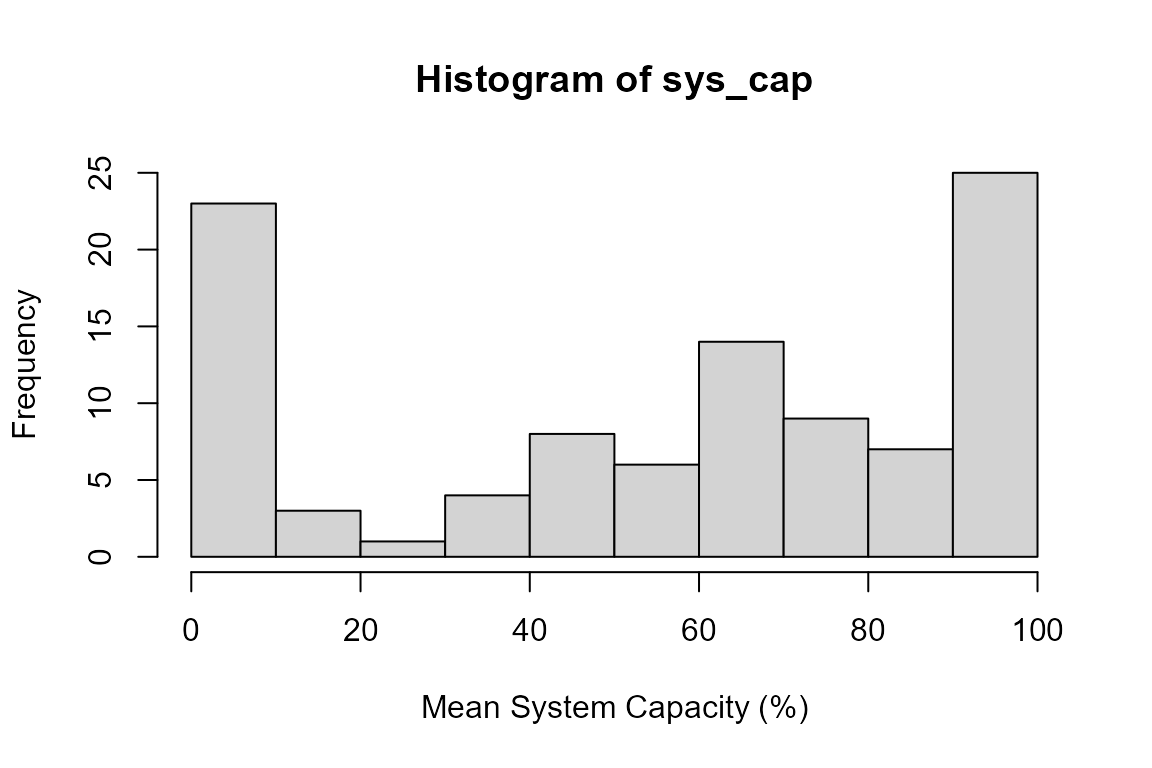
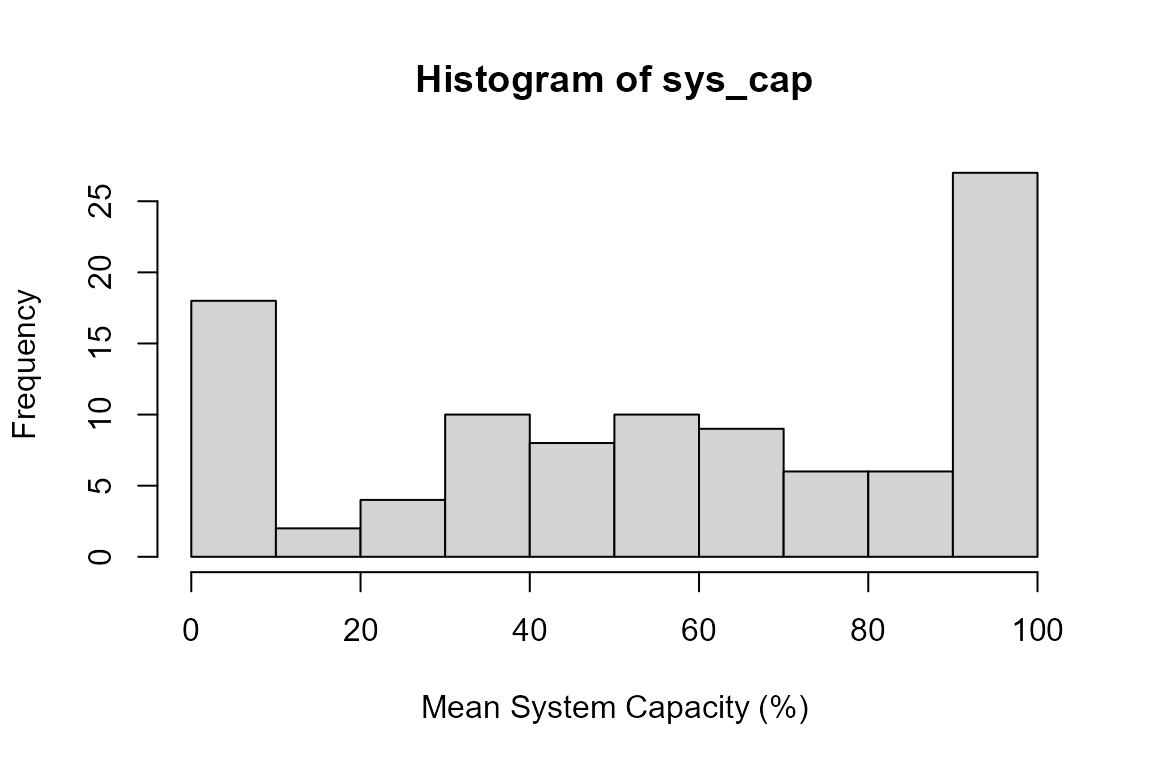
ghp

diff --git a/docs/articles/population-model-batch-run.html b/docs/articles/population-model-batch-run.html
@@ -162,19 +162,19 @@ variables “ce” or baseline reference conditions “baseline”.</p>
 <span>    <span class="co"># Review output</span></span>
 <span>    <span class="fu"><a href="https://rdrr.io/r/utils/head.html" class="external-link">head</a></span><span class="op">(</span><span class="va">data</span>, <span class="fl">3</span><span class="op">)</span></span>
 <span><span class="co">#&gt;   year        N MC_sim group</span></span>
-<span><span class="co">#&gt; 1    0 97.26709      1    ce</span></span>
-<span><span class="co">#&gt; 2    1 97.23826      1    ce</span></span>
-<span><span class="co">#&gt; 3    2 94.16912      1    ce</span></span>
+<span><span class="co">#&gt; 1    0 51.86293      1    ce</span></span>
+<span><span class="co">#&gt; 2    1 59.73891      1    ce</span></span>
+<span><span class="co">#&gt; 3    2 65.31180      1    ce</span></span>
 <span></span>
 <span>    <span class="co"># Look the median adult abundance</span></span>
 <span>    </span>
 <span>    <span class="co"># with stressor variables (cumulative effects)</span></span>
 <span>    <span class="fu"><a href="https://rdrr.io/r/stats/median.html" class="external-link">median</a></span><span class="op">(</span><span class="va">data</span><span class="op">$</span><span class="va">N</span><span class="op">[</span><span class="fu"><a href="https://rdrr.io/r/base/which.html" class="external-link">which</a></span><span class="op">(</span><span class="va">data</span><span class="op">$</span><span class="va">group</span> <span class="op">==</span> <span class="st">"ce"</span><span class="op">)</span><span class="op">]</span>, na.rm <span class="op">=</span> <span class="cn">TRUE</span><span class="op">)</span></span>
-<span><span class="co">#&gt; [1] 98.52124</span></span>
+<span><span class="co">#&gt; [1] 94.02069</span></span>
 <span>    </span>
 <span>    <span class="co"># and without stressor variables (baseline status quo)</span></span>
 <span>    <span class="fu"><a href="https://rdrr.io/r/stats/median.html" class="external-link">median</a></span><span class="op">(</span><span class="va">data</span><span class="op">$</span><span class="va">N</span><span class="op">[</span><span class="fu"><a href="https://rdrr.io/r/base/which.html" class="external-link">which</a></span><span class="op">(</span><span class="va">data</span><span class="op">$</span><span class="va">group</span> <span class="op">==</span> <span class="st">"baseline"</span><span class="op">)</span><span class="op">]</span>, na.rm <span class="op">=</span> <span class="cn">TRUE</span><span class="op">)</span></span>
-<span><span class="co">#&gt; [1] 98.99706</span></span></code></pre></div>
+<span><span class="co">#&gt; [1] 97.83477</span></span></code></pre></div>
 </div>
 <div class="section level2">
 <h2 id="visualize-the-time-series-projections">Visualize the Time Series Projections<a class="anchor" aria-label="anchor" href="#visualize-the-time-series-projections"></a>

diff --git a/docs/articles/population-model.html b/docs/articles/population-model.html
@@ -315,7 +315,7 @@ stressors are included.</p>
 <span><span class="va">baseline_sys_cap</span> <span class="op">&lt;-</span> <span class="fu">stats</span><span class="fu">::</span><span class="fu"><a href="https://rdrr.io/r/stats/median.html" class="external-link">median</a></span><span class="op">(</span><span class="va">baseline</span><span class="op">$</span><span class="va">pop</span><span class="op">$</span><span class="va">N</span><span class="op">[</span><span class="fl">50</span><span class="op">:</span><span class="fl">100</span><span class="op">]</span><span class="op">)</span></span>
 <span><span class="va">ce_sys_cap</span> <span class="op">&lt;-</span> <span class="fu">stats</span><span class="fu">::</span><span class="fu"><a href="https://rdrr.io/r/stats/median.html" class="external-link">median</a></span><span class="op">(</span><span class="va">ce_pop</span><span class="op">$</span><span class="va">pop</span><span class="op">$</span><span class="va">N</span><span class="op">[</span><span class="fl">50</span><span class="op">:</span><span class="fl">100</span><span class="op">]</span><span class="op">)</span></span>
 <span><span class="va">ce_sys_cap</span> <span class="op">/</span> <span class="va">baseline_sys_cap</span></span>
-<span><span class="co">#&gt; [1] 0.6818417</span></span></code></pre></div>
+<span><span class="co">#&gt; [1] 0.6624121</span></span></code></pre></div>
 </div>
 
   </main><aside class="col-md-3"><nav id="toc"><h2>On this page</h2>
